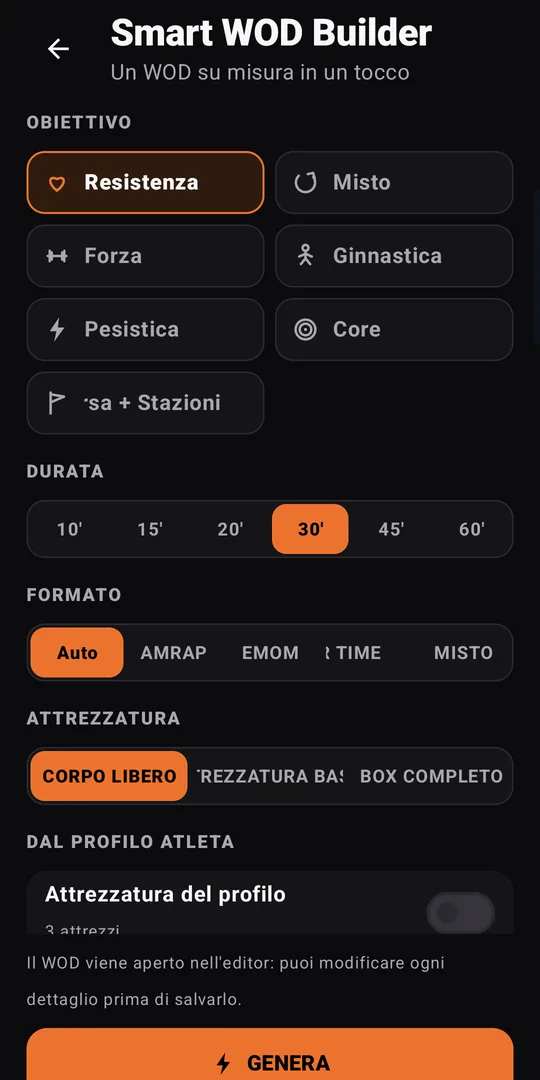
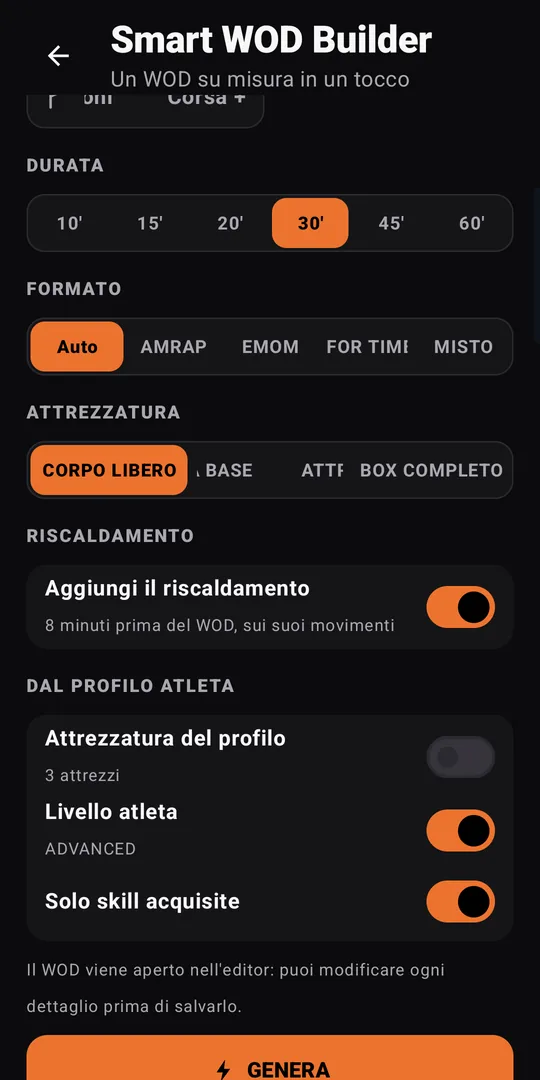
Guida 10.4.0: screenshot di Smart WOD con riscaldamento, livelli di riferimento e Race 8×8
Claude-Session: https://claude.ai/code/session_01PyjFu7mjRCmwWWDbJPmE1q

diff --git a/guida/index.html b/guida/index.html
@@ -267,7 +267,7 @@ const SECTIONS = [
       en: 'The library holds your WODs and your box\'s. The editor builds any class: a WOD is a sequence of intervals, each with its own format and exercises.',
       es: 'La biblioteca contiene tus WOD y los de tu box. El editor construye cualquier clase: un WOD es una secuencia de intervalos, cada uno con su formato y sus ejercicios.'
     },
-    shots: [['wod-library', { it: 'Libreria Workout', en: 'Workout library', es: 'Biblioteca Workout' }], ['wod-detail', { it: 'Un WOD in due parti', en: 'A two-part WOD', es: 'Un WOD en dos partes' }], ['wod-editor', { it: 'Editor a intervalli', en: 'Interval editor', es: 'Editor por intervalos' }]],
+    shots: [['wod-library', { it: 'Libreria Workout', en: 'Workout library', es: 'Biblioteca Workout' }], ['wod-detail', { it: 'Un WOD in due parti', en: 'A two-part WOD', es: 'Un WOD en dos partes' }], ['wod-editor', { it: 'Editor a intervalli', en: 'Interval editor', es: 'Editor por intervalos' }], ['race', { it: 'Race 8×8', en: 'Race 8×8', es: 'Race 8×8' }]],
     items: [
       { t: { it: 'Intervalli', en: 'Intervals', es: 'Intervalos' },
         d: { it: 'Ogni intervallo è un For Time, AMRAP, EMOM o Countdown con i suoi esercizi (ripetizioni, calorie, metri, tempo, carico, note). Si aprono con un tocco, si riordinano trascinandoli e gli esercizi si spostano da un intervallo all\'altro.', en: 'Each interval is a For Time, AMRAP, EMOM or Countdown with its own exercises (reps, calories, meters, time, load, notes). Tap to open, drag to reorder, and drag exercises from one interval to another.', es: 'Cada intervalo es un For Time, AMRAP, EMOM o Countdown con sus ejercicios (repeticiones, calorías, metros, tiempo, carga, notas). Se abren con un toque, se reordenan arrastrando y los ejercicios se mueven de un intervalo a otro.' } },
@@ -399,7 +399,7 @@ const SECTIONS = [
       en: 'A tailor-made WOD in one tap, built on the equipment, level and skills of your athlete profile.',
       es: 'Un WOD a medida en un toque, construido con el material, el nivel y las skills de tu perfil de atleta.'
     },
-    shots: [['smart', { it: 'Smart WOD Builder', en: 'Smart WOD Builder', es: 'Smart WOD Builder' }]],
+    shots: [['smart', { it: 'Smart WOD Builder', en: 'Smart WOD Builder', es: 'Smart WOD Builder' }], ['smart-warmup', { it: 'Il riscaldamento in testa al WOD', en: 'The warm-up ahead of the WOD', es: 'El calentamiento antes del WOD' }]],
     items: [
       { t: { it: 'Obiettivi', en: 'Goals', es: 'Objetivos' },
         d: { it: 'Resistenza, Misto, Forza, Ginnastica, Pesistica, Core e Corsa + Stazioni. Il Misto può uscire in più parti, fino a 60 minuti.', en: 'Endurance, Mixed, Strength, Gymnastics, Weightlifting, Core and Run + Stations. Mixed can come out in several parts, up to 60 minutes.', es: 'Resistencia, Mixto, Fuerza, Gimnasia, Halterofilia, Core y Carrera + Estaciones. El Mixto puede salir en varias partes, hasta 60 minutos.' } },
@@ -423,7 +423,7 @@ const SECTIONS = [
       en: 'Reference WODs to measure progress, split into the Girls, Hero, Open (every one since 2011) and Custom collections. The Workout library also holds 244 standard WODs (Girls and Heroes), the Opens and the Race 8×8, ready to run.',
       es: 'Los WOD de referencia para medir el progreso, divididos en las colecciones Girls, Hero, Open (todos desde 2011) y Custom. En la biblioteca Workout tienes además 244 WOD estándar (Girls y Hero), los Open y la Race 8×8 listos para empezar.'
     },
-    shots: [['benchmarks', { it: 'Benchmark hub', en: 'Benchmark hub', es: 'Benchmark hub' }], ['benchmarks-catalog', { it: 'Catalogo', en: 'Catalog', es: 'Catálogo' }]],
+    shots: [['benchmarks', { it: 'Benchmark hub', en: 'Benchmark hub', es: 'Benchmark hub' }], ['benchmarks-catalog', { it: 'Catalogo', en: 'Catalog', es: 'Catálogo' }], ['benchmark-levels', { it: 'Livelli di riferimento', en: 'Reference levels', es: 'Niveles de referencia' }]],
     items: [
       { t: { it: 'Collezioni e tentativi', en: 'Collections and attempts', es: 'Colecciones e intentos' },
         d: { it: 'Filtri Tutti / Completati / Da fare, percentuale di catalogo completata, storico dei tentativi e record personale di ogni benchmark. Le sessioni avviate da un benchmark aggiornano tutto da sole.', en: 'All / Completed / To do filters, catalog completion percentage, attempt history and personal record for every benchmark. Sessions started from a benchmark update everything automatically.', es: 'Filtros Todos / Completados / Pendientes, porcentaje del catálogo completado, historial de intentos y récord personal de cada benchmark. Las sesiones iniciadas desde un benchmark lo actualizan todo solas.' } },
